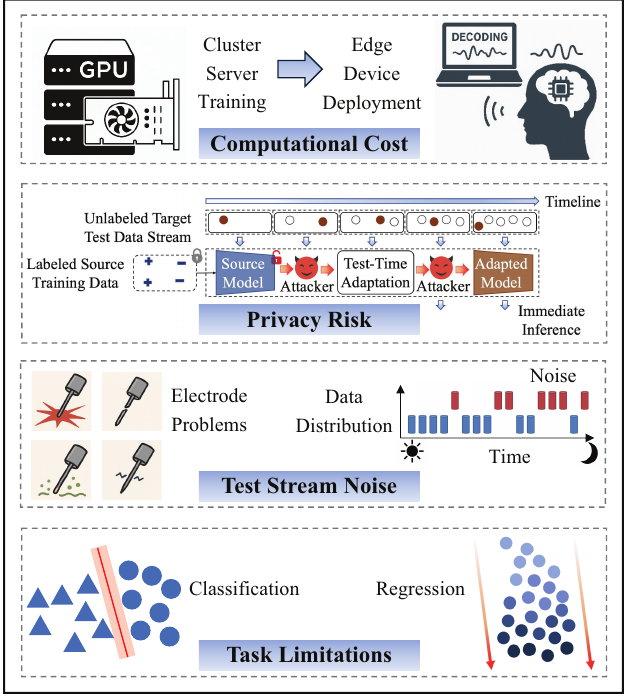
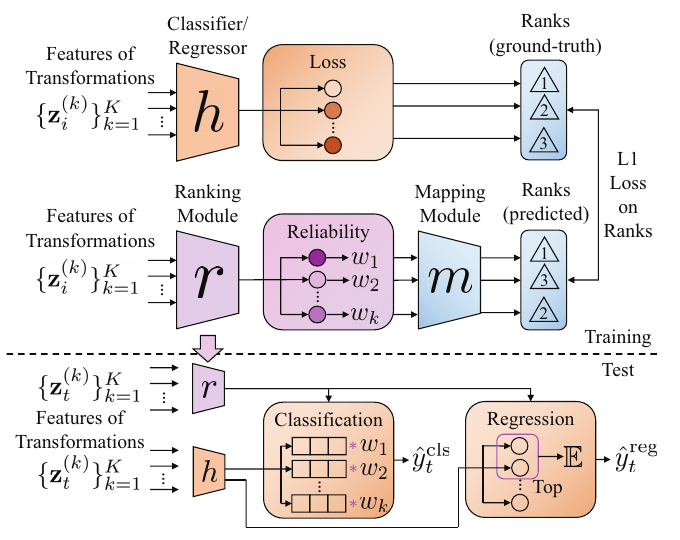
Add method figures and prioritize competition awards

diff --git a/index.html b/index.html
@@ -152,9 +152,6 @@
       font-weight: 700;
       letter-spacing: .01em;
     }
-    .paper-cover { align-items: flex-start; justify-content: flex-end; padding: 24px; background: var(--accent-soft); }
-    .paper-cover strong { font-size: 2rem; line-height: 1; letter-spacing: -.025em; }
-    .paper-cover span:last-child { display: block; margin-top: 9px; color: var(--muted); font-family: Arial, Helvetica, sans-serif; font-size: .71rem; letter-spacing: .055em; text-transform: uppercase; }
     .paper-title { margin: 0; font-size: 1.08rem; line-height: 1.38; }
     .authors, .paper-outlet, .paper-summary, .paper-links { margin: 7px 0 0; font-size: .92rem; line-height: 1.5; }
     .authors { color: var(--muted); }
@@ -343,7 +340,7 @@
           <p class="research-group-copy">Cross-subject and few-repetition brain-to-image retrieval.</p>
 
           <article class="paper">
-            <div class="paper-media paper-cover"><span class="paper-badge">Preprint Soon</span><div><strong>SCORE</strong><span>Cross-subject EEG → image retrieval</span></div></div>
+            <div class="paper-media"><span class="paper-badge">Preprint Soon</span><img src="images/papers/score.png" alt="Overview of SCORE training and label-free coordinate recovery for cross-subject EEG-to-image retrieval"></div>
             <div class="paper-text">
               <h4 class="paper-title">SCORE: Subject Coordinate Recovery for Label-Free Cross-Subject EEG-to-Image Retrieval</h4>
               <p class="authors"><strong>Zhenyao Cui</strong>, Siyuan Kan, Siyang Li, Ziwei Wang, Dongrui Wu</p>
@@ -354,7 +351,7 @@
           </article>
 
           <article class="paper">
-            <div class="paper-media paper-cover"><span class="paper-badge">Preprint Soon</span><div><strong>NEAR</strong><span>Few-repetition neural retrieval</span></div></div>
+            <div class="paper-media"><span class="paper-badge">Preprint Soon</span><img src="images/papers/near.png" alt="Training and inference overview of NEAR query anchoring and gallery anchoring"></div>
             <div class="paper-text">
               <h4 class="paper-title">Beyond Trial Averaging: Anchoring Neural and Visual Representations for Few-Repetition Brain-to-Image Retrieval</h4>
               <p class="authors"><strong>Zhenyao Cui</strong>, Siyuan Kan, Dingkun Liu, Dongrui Wu</p>
@@ -394,10 +391,11 @@
       </section>
 
       <section id="projects">
-        <h2 class="section-title">Projects &amp; Selected Awards</h2>
+        <h2 class="section-title">Competitions, Projects &amp; Awards</h2>
         <ul class="project-list">
-          <li><strong>Fast and Accurate EEG-Controlled Robotic Arm:</strong> designed the EEG paradigm, decoder, and closed-loop control system; National Champion at the 2025 China Brain-Computer Interface Competition.</li>
-          <li><strong>ECoG-Based Limb-Movement Intention Decoding:</strong> developed a decoder for continuous limb-movement intentions; First Prize at the 2024 World Robot Contest Championship.</li>
+          <li><strong>National Champion, China Brain-Computer Interface Competition, 2025:</strong> designed the EEG paradigm, decoder, and closed-loop control system for a fast and accurate brain-controlled robotic arm.</li>
+          <li><strong>First Prize, World Robot Contest Championship, 2024:</strong> developed an ECoG-based decoder for continuous limb-movement intentions.</li>
+          <li><strong>Huawei Scholarship</strong>, 2021–22.</li>
           <li><strong>Outstanding Graduate of HUST</strong>, 2024.</li>
         </ul>
       </section>
